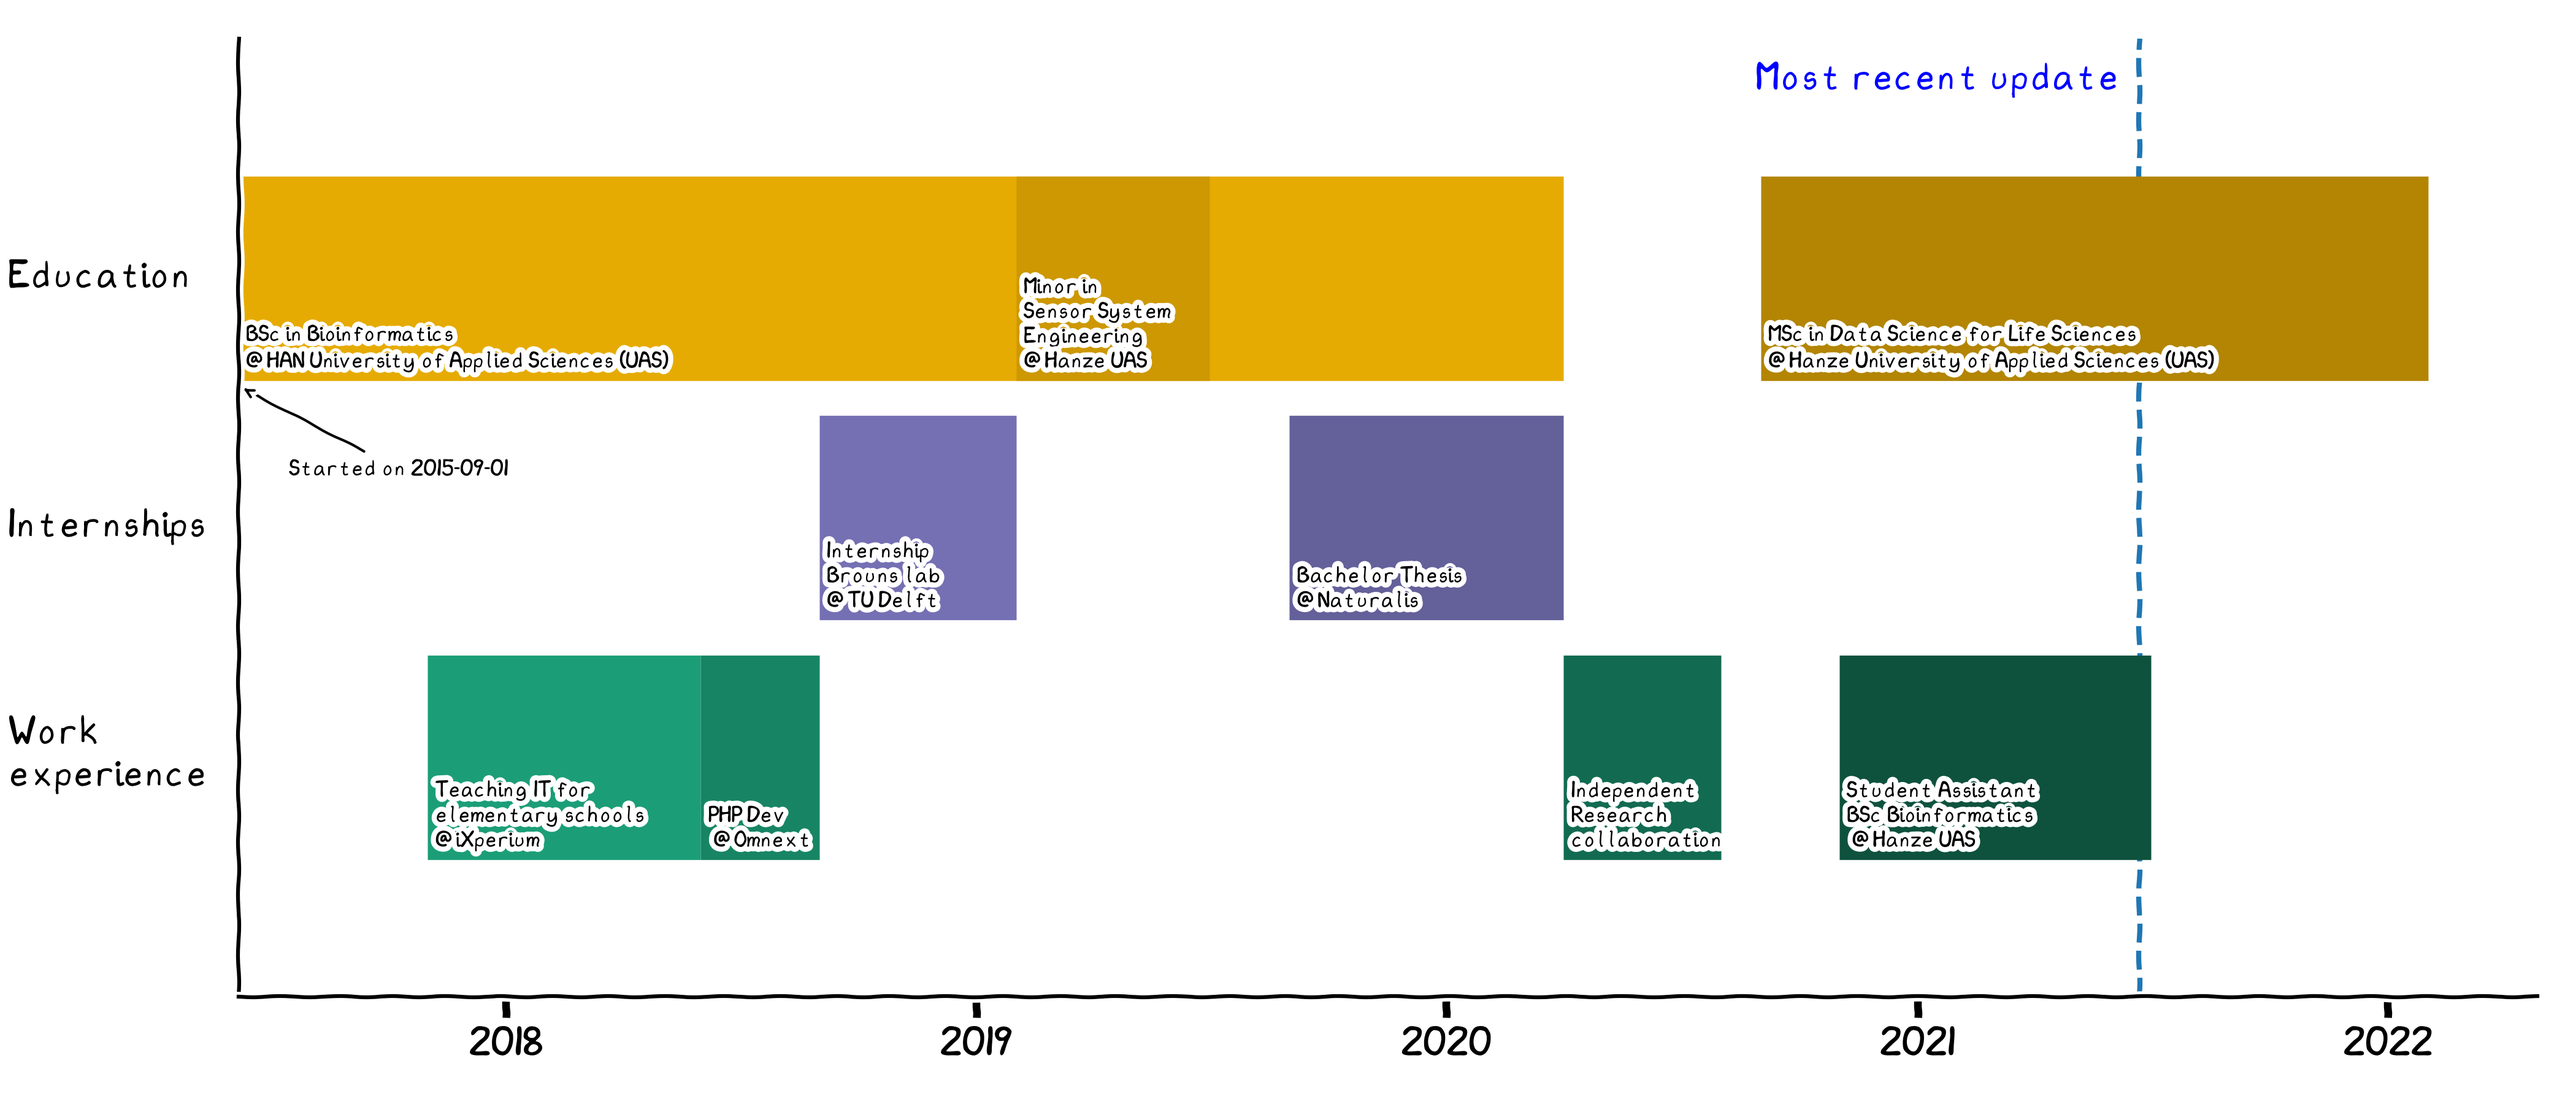
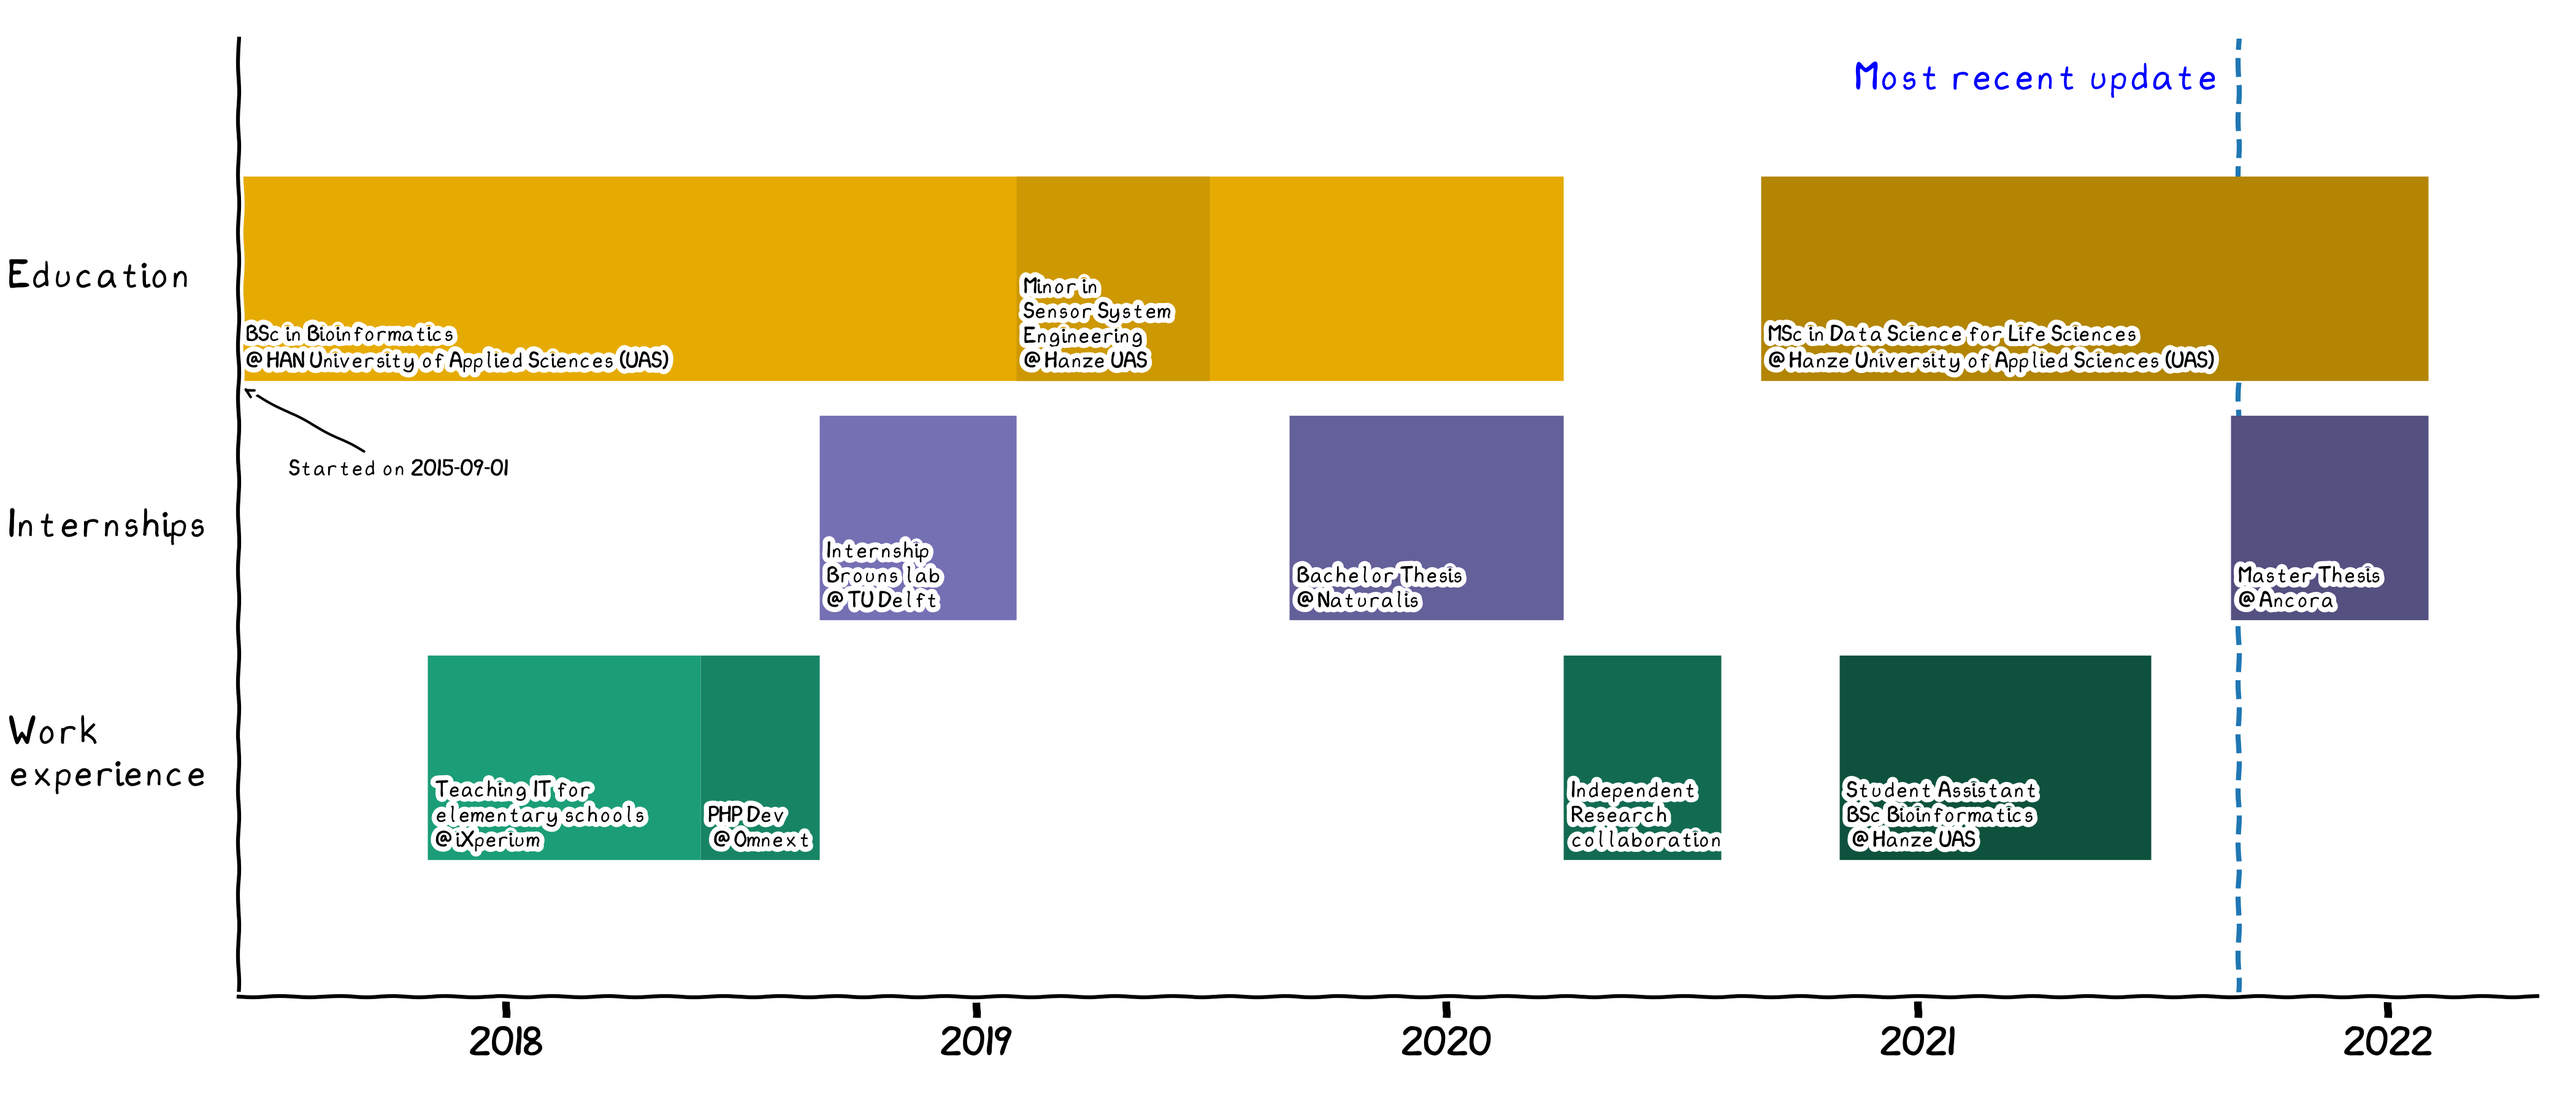
updated with most recent personal information

Changed region(s): [[0.8421, 0.3733, 0.9669, 0.56], [0.6862, 0.0622, 0.8733, 0.0933]]

diff --git a/_pages/about.md b/_pages/about.md
@@ -5,7 +5,9 @@ header:
   image: "/assets/images/Timeline_CV.png"
 ---
 
-I currently work as a student-assistant at the Bachelor of Bioinformatics from the Hanze University of Applied Sciences, where I am also a student in the master program Data Science for Life Sciences.
+I am currently working on my Master thesis at Ancora Health.
+
+I have worked as a student-assistant at the Bachelor of Bioinformatics from the Hanze University of Applied Sciences, where I am also a student in the master program Data Science for Life Sciences.
 
 Before this I worked on a research collaboration with Daan F. van den Berg and Franklin L. Nobrega on the DefenseSystemFinder tool.
 
